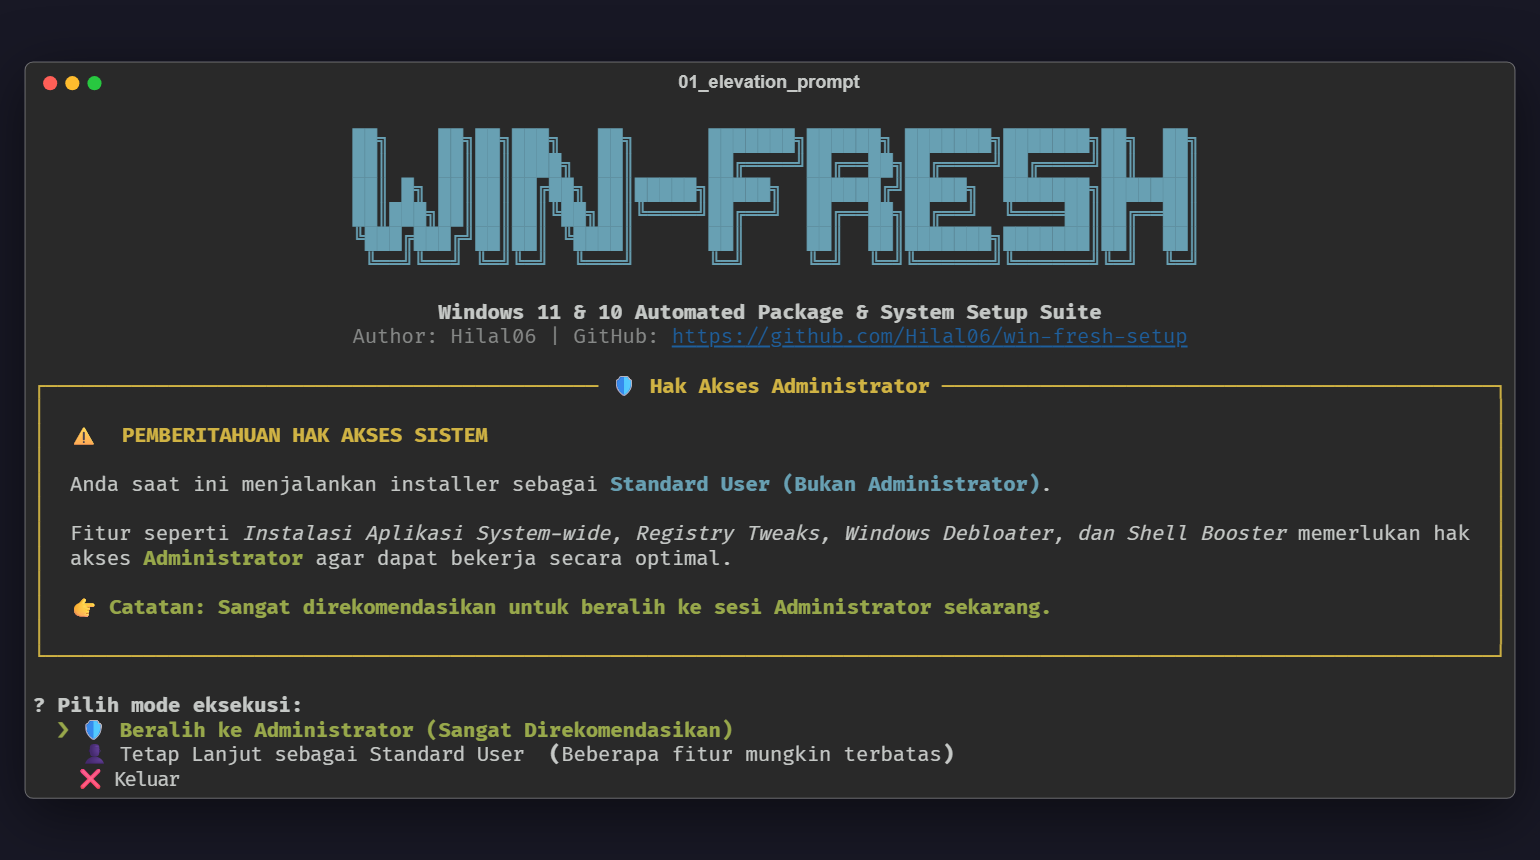
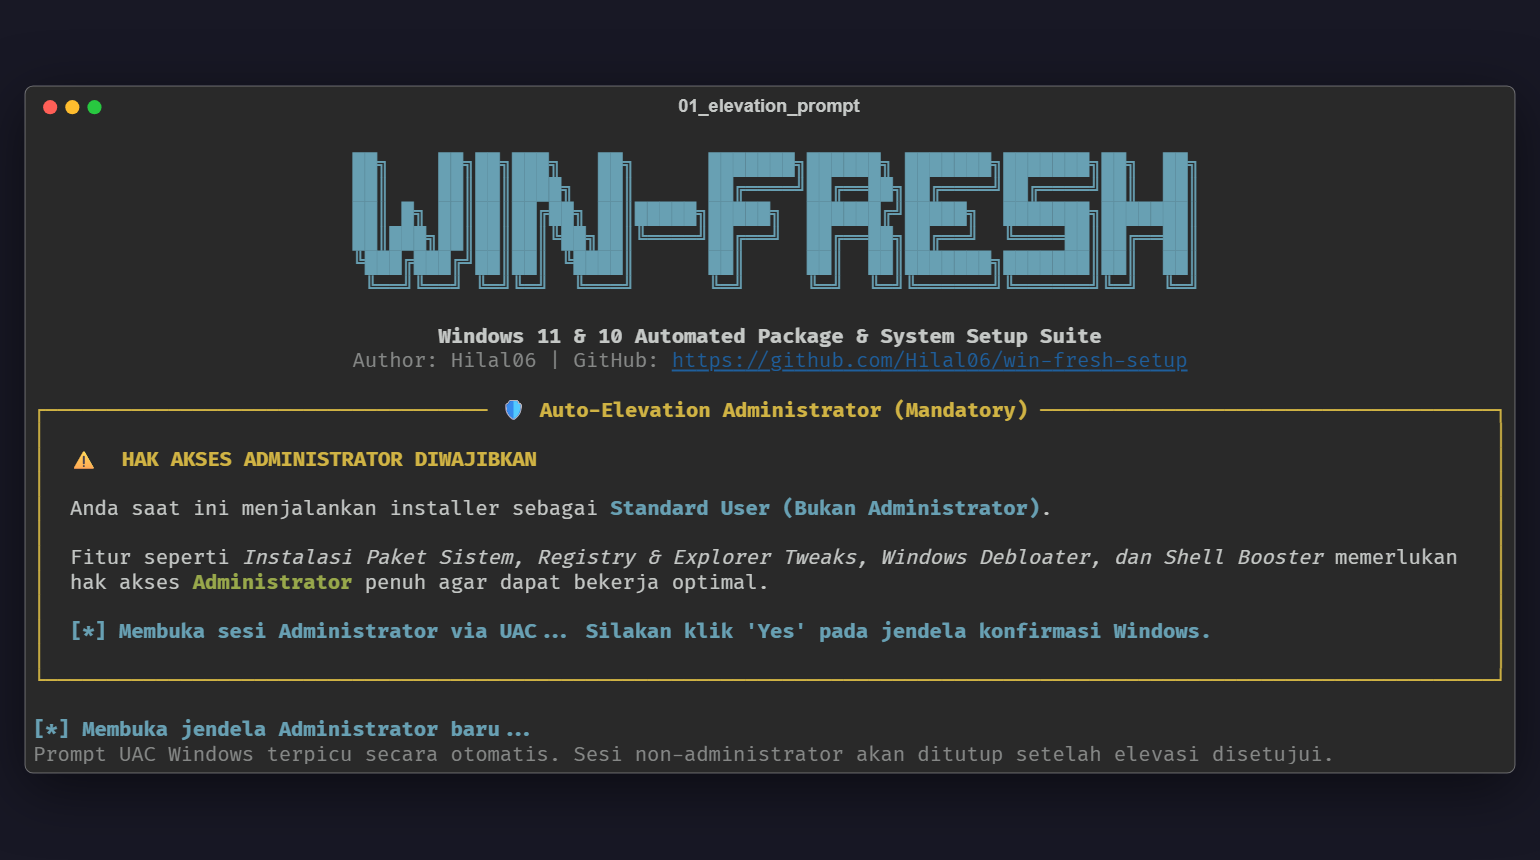
feat(core): enforce mandatory administrator auto-elevation across all entrypoints (CTT winutil pattern)

diff --git a/installer.py b/installer.py
@@ -176,20 +176,32 @@ def is_admin() -> bool:
 
 def elevate_process() -> bool:
     """Relaunch the current script with Administrator elevation (UAC prompt)."""
-    CONSOLE.print("\n[bold cyan][*] Membuka jendela Administrator baru... Silakan klik 'Yes' pada prompt UAC.[/bold cyan]")
+    CONSOLE.print("\n[bold cyan][*] Membuka jendela Administrator baru... Silakan klik 'Yes' pada prompt UAC Windows.[/bold cyan]")
     python_exe = sys.executable
     script_path = os.path.abspath(sys.argv[0])
-    params = f'"{script_path}"'
-    
+
+    # Check if Windows Terminal is available
+    wt_exe = shutil.which("wt.exe")
+
     try:
-        ret = ctypes.windll.shell32.ShellExecuteW(
-            None,
-            "runas",
-            python_exe,
-            params,
-            os.getcwd(),
-            1  # SW_SHOWNORMAL
-        )
+        if wt_exe:
+            ret = ctypes.windll.shell32.ShellExecuteW(
+                None,
+                "runas",
+                wt_exe,
+                f'"{python_exe}" "{script_path}"',
+                os.getcwd(),
+                1  # SW_SHOWNORMAL
+            )
+        else:
+            ret = ctypes.windll.shell32.ShellExecuteW(
+                None,
+                "runas",
+                python_exe,
+                f'"{script_path}"',
+                os.getcwd(),
+                1  # SW_SHOWNORMAL
+            )
         # ShellExecute returns HINSTANCE > 32 on success
         if int(ret) > 32:
             return True
@@ -199,45 +211,35 @@ def elevate_process() -> bool:
         CONSOLE.print(f"[bold red][X] Terjadi kesalahan saat membuka prompt Administrator: {e}[/bold red]")
         return False
 
-def prompt_elevation_if_needed():
-    """Prompt standard user to elevate to Administrator privileges before main menu."""
+def require_admin():
+    """Ensure script is running as Administrator; automatically trigger UAC elevation if not."""
     if is_admin():
         return
 
     print_banner()
     CONSOLE.print(
         Panel(
-            "[bold yellow]⚠  PEMBERITAHUAN HAK AKSES SISTEM[/bold yellow]\n\n"
+            "[bold yellow]⚠  HAK AKSES ADMINISTRATOR DIWAJIBKAN[/bold yellow]\n\n"
             "Anda saat ini menjalankan installer sebagai [bold cyan]Standard User (Bukan Administrator)[/bold cyan].\n\n"
-            "Fitur seperti [italic]Instalasi Aplikasi System-wide, Registry Tweaks, Windows Debloater, dan Shell Booster[/italic] "
-            "memerlukan hak akses [bold green]Administrator[/bold green] agar dapat bekerja secara optimal.\n\n"
-            "[bold green]👉 Catatan: Sangat direkomendasikan untuk beralih ke sesi Administrator sekarang.[/bold green]",
-            title="[bold yellow]🛡 Hak Akses Administrator[/bold yellow]",
+            "Fitur seperti [italic]Instalasi Paket Sistem, Registry & Explorer Tweaks, Windows Debloater, dan Shell Booster[/italic] "
+            "memerlukan hak akses [bold green]Administrator[/bold green] penuh agar dapat bekerja optimal.\n\n"
+            "[bold cyan][*] Membuka sesi Administrator via UAC... Silakan klik 'Yes' pada jendela konfirmasi Windows.[/bold cyan]",
+            title="[bold yellow]🛡 Auto-Elevation Administrator[/bold yellow]",
             border_style="yellow",
             padding=(1, 2)
         )
     )
-    CONSOLE.print("")
 
-    choice = questionary.select(
-        "Pilih mode eksekusi:",
-        choices=[
-            Choice("🛡 Beralih ke Administrator (Sangat Direkomendasikan)", value="elevate"),
-            Choice("👤 Tetap Lanjut sebagai Standard User (Beberapa fitur mungkin terbatas)", value="continue"),
-            Choice("❌ Keluar", value="exit")
-        ],
-        style=CUSTOM_STYLE
-    ).ask()
-
-    if choice == "elevate":
-        if elevate_process():
-            sys.exit(0)
-        else:
-            CONSOLE.print("[bold yellow][!] Elevasi dibatalkan atau ditolak. Melanjutkan sebagai Standard User...[/bold yellow]")
-            questionary.press_any_key_to_continue().ask()
-    elif choice == "exit":
-        CONSOLE.print("\n[yellow]Setup dibatalkan oleh pengguna.[/yellow]")
+    if elevate_process():
         sys.exit(0)
+    else:
+        CONSOLE.print("\n[bold red][X] Elevasi Administrator dibatalkan atau ditolak.[/bold red]")
+        CONSOLE.print("[yellow]win-fresh-setup memerlukan hak akses Administrator untuk berjalan. Program dihentikan.[/yellow]\n")
+        sys.exit(1)
+
+def prompt_elevation_if_needed():
+    """Alias for backwards compatibility."""
+    require_admin()
 
 def ensure_dirs():
     if not os.path.exists(LOGS_DIR):
@@ -1356,7 +1358,7 @@ def main_menu():
 if __name__ == "__main__":
     try:
         ensure_dirs()
-        prompt_elevation_if_needed()
+        require_admin()
         main_menu()
     except KeyboardInterrupt:
         CONSOLE.print("\n[yellow]Operation canceled by user.[/yellow]")

diff --git a/generate_feature_svgs.py b/generate_feature_svgs.py
@@ -39,7 +39,7 @@ def render_to_svg(filename: str, render_callback, width=120):
     console.save_svg(svg_path, title=filename.replace(".svg", ""))
     return svg_path
 
-# 1. Main Banner & Elevation Screen
+# 1. Main Banner & Mandatory Elevation Screen (CTT-style Auto-Elevation)
 def draw_elevation_screen(c: Console):
     title = """
   ██╗    ██╗██╗███╗   ██╗      ███████╗██████╗ ███████╗███████╗██╗  ██╗
@@ -53,19 +53,17 @@ def draw_elevation_screen(c: Console):
     c.print(Align.center("[bold white]Windows 11 & 10 Automated Package & System Setup Suite[/bold white]"))
     c.print(Align.center("[dim]Author: Hilal06 | GitHub: https://github.com/Hilal06/win-fresh-setup[/dim]\n"))
     c.print(Panel(
-        "[bold yellow]⚠  PEMBERITAHUAN HAK AKSES SISTEM[/bold yellow]\n\n"
+        "[bold yellow]⚠  HAK AKSES ADMINISTRATOR DIWAJIBKAN[/bold yellow]\n\n"
         "Anda saat ini menjalankan installer sebagai [bold cyan]Standard User (Bukan Administrator)[/bold cyan].\n\n"
-        "Fitur seperti [italic]Instalasi Aplikasi System-wide, Registry Tweaks, Windows Debloater, dan Shell Booster[/italic] "
-        "memerlukan hak akses [bold green]Administrator[/bold green] agar dapat bekerja secara optimal.\n\n"
-        "[bold green]👉 Catatan: Sangat direkomendasikan untuk beralih ke sesi Administrator sekarang.[/bold green]",
-        title="[bold yellow]🛡 Hak Akses Administrator[/bold yellow]",
+        "Fitur seperti [italic]Instalasi Paket Sistem, Registry & Explorer Tweaks, Windows Debloater, dan Shell Booster[/italic] "
+        "memerlukan hak akses [bold green]Administrator[/bold green] penuh agar dapat bekerja optimal.\n\n"
+        "[bold cyan][*] Membuka sesi Administrator via UAC... Silakan klik 'Yes' pada jendela konfirmasi Windows.[/bold cyan]",
+        title="[bold yellow]🛡 Auto-Elevation Administrator (Mandatory)[/bold yellow]",
         border_style="yellow",
         padding=(1, 2)
     ))
-    c.print("\n[bold]? Pilih mode eksekusi:[/bold]")
-    c.print("  [bold green]❯ 🛡 Beralih ke Administrator (Sangat Direkomendasikan)[/bold green]")
-    c.print("    👤 Tetap Lanjut sebagai Standard User (Beberapa fitur mungkin terbatas)")
-    c.print("    ❌ Keluar")
+    c.print("\n[bold cyan][*] Membuka jendela Administrator baru...[/bold cyan]")
+    c.print("[dim]Prompt UAC Windows terpicu secara otomatis. Sesi non-administrator akan ditutup setelah elevasi disetujui.[/dim]")
 
 # 2. Main Menu Screen
 def draw_main_menu_screen(c: Console):
